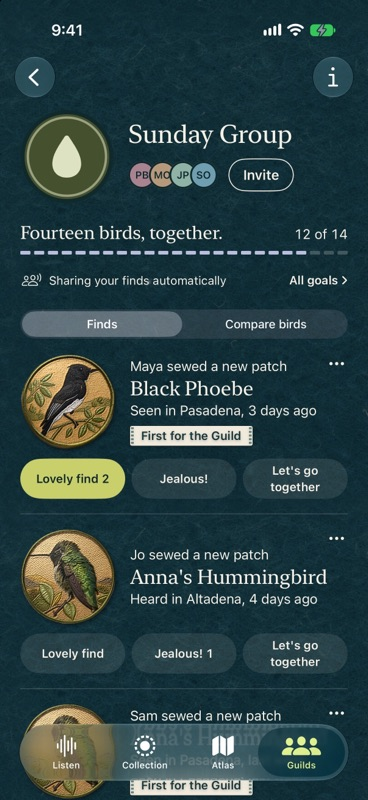
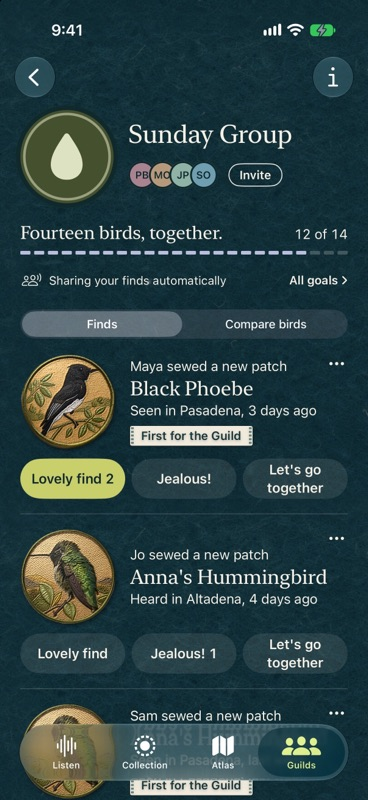
Guilds: the evidence, retaken after the review's fixes (#150)

diff --git a/DECISIONS.md b/DECISIONS.md
@@ -1311,7 +1311,9 @@ The issue's "Guilds" section, with what it left open:
 - **A CDN thumbnail is used only if its key names the find's own edition.** Both are the finder's phone's words. The page shows the same picture as the row, so a zoom doesn't change patch on the way.
 - **The friend's paper card has no history.** `FriendPaperCard` shares the story and biology with `PaperCardView` and leaves out the count, the sightings and "All sightings", since those belong to the card's owner.
 - **The emblem's disc matches the patches.** Its ring is the page's colour and vanishes on felt, so it's drawn at 112 with -5 padding and the disc reads at 102, as the mock has them. `GuildEmblem` is unchanged.
-- **The Invite pill and the sizes follow the reference at 1.34 where the tokens allow:** the name is `JournalFont.title` (largeTitle measured 18 % wide of the mock), the goal `JournalFont.heading`, a bird's name `JournalFont.section`. The reaction pills are 44 pt tall against the mock's 39, as the issue requires. "Let's go together" wraps at default text, since the issue's full names win over the mock's "Let's go".
+- **A reaction's failure is said under its own pills**, not at the end of the column, which is usually off screen.
+- **A member of one Guild keeps "Join with an invite"**, at the foot of the page the tab opens on. Signed out, the join screen shows Featherguild's emblem until the invitation says which Guild, so nothing changes at sign-in.
+- **The Invite pill and the sizes follow the reference at 1.34 where the tokens allow:** the name is `JournalFont.title` (largeTitle measured 18 % wide of the mock), the goal `JournalFont.heading`, a bird's name `JournalFont.section`. Reaction labels are `.subheadline`, as the mock's. The pills are 44 pt tall against the mock's 39, as the issue requires. "Let's go together" wraps at default text, since the issue's full names win over the mock's "Let's go".
 - **The reference's order isn't kept in the fixture.** Its Maya, "3 days ago", sits above Jo, "yesterday", which a feed sorted by time can't do. `-fakeCircles reference` makes Jo's 4 days ago.
 - **Compare keeps its screen behind the picker**, with its friends on a raised panel rather than felt, since they're rows to operate (slice 8 replaces it). The goal's patches are slice 8's too: `CompactGoal` shows thread alone, with the place for them marked.
 - **`Landscape.swift` is gone.** Nothing else drew a landscape, so the enum and palette went with `LandscapeArt`. `SetCoverImage` and `SeededRandom`, which were in that file, are in `SetCoverImage.swift`.

diff --git a/docs/screenshots/150/guilds/README.md b/docs/screenshots/150/guilds/README.md
@@ -16,7 +16,8 @@ Every picture is the running app on an iPhone 17 Pro simulator (iOS 27.2) at hal
 
 `sheets/against-reference` puts `1-guild-page.png` next to the page.
 
-- **The emblem** is today's `GuildEmblem`. The mock's leaf crest is rejected.
+- **The emblem** is today's `GuildEmblem`, its disc at the patches' 102 pt. The mock's leaf crest is rejected.
+- **Invite** is the mock's small outlined pill, about 28 pt tall against its 25.5, and answers to 44 pt.
 - **The goal has thread alone.** The row of patches is slice 8's, and takes the room the mock gives it, under the thread.
 - **"All goals" and the sharing line** aren't in the mock. The issue asks for both, so they share a line under the goal.
 - **Reaction names are the issue's full ones:** "Lovely find", "Jealous!", "Let's go together", which wraps at default text, in three equal pills as drawn. They're 44 pt tall against the mock's 39.
@@ -29,9 +30,9 @@ Every picture is the running app on an iPhone 17 Pro simulator (iOS 27.2) at hal
 
 ```
 A Guild's page: first window: 0 patch decodes, 0 AV1 or ImageIO lines. 20 s later: 0 patch decodes, 0 AV1 or ImageIO lines. Patch decodes in the last minute: 6.
-The Guilds tab: first window: 0 patch decodes, 0 AV1 or ImageIO lines. 20 s later: 0 patch decodes, 0 AV1 or ImageIO lines. Patch decodes in the last minute: 8.
-A find's page: first window: 0 patch decodes, 0 AV1 or ImageIO lines. 20 s later: 0 patch decodes, 0 AV1 or ImageIO lines. Patch decodes in the last minute: 6.
-Sign-in, with its samples: first window: 0 patch decodes, 0 AV1 or ImageIO lines. 20 s later: 0 patch decodes, 0 AV1 or ImageIO lines. Patch decodes in the last minute: 10.
+The Guilds tab: first window: 0 patch decodes, 0 AV1 or ImageIO lines. 20 s later: 0 patch decodes, 0 AV1 or ImageIO lines. Patch decodes in the last minute: 2.
+A find's page: first window: 0 patch decodes, 0 AV1 or ImageIO lines. 20 s later: 0 patch decodes, 0 AV1 or ImageIO lines. Patch decodes in the last minute: 4.
+Sign-in, with its samples: first window: 0 patch decodes, 0 AV1 or ImageIO lines. 20 s later: 0 patch decodes, 0 AV1 or ImageIO lines. Patch decodes in the last minute: 6.
 ```
 
 Each patch decodes twice (colour and layers) as it comes on screen, and nothing after that. The last-minute counts run into the launch before them.
